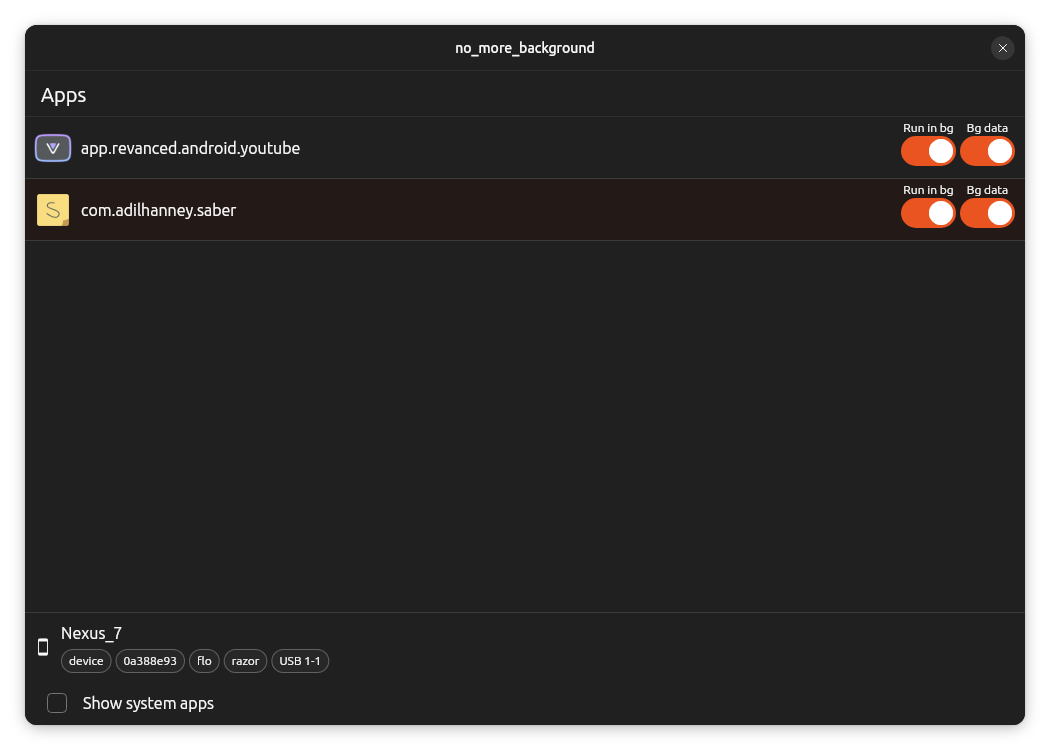
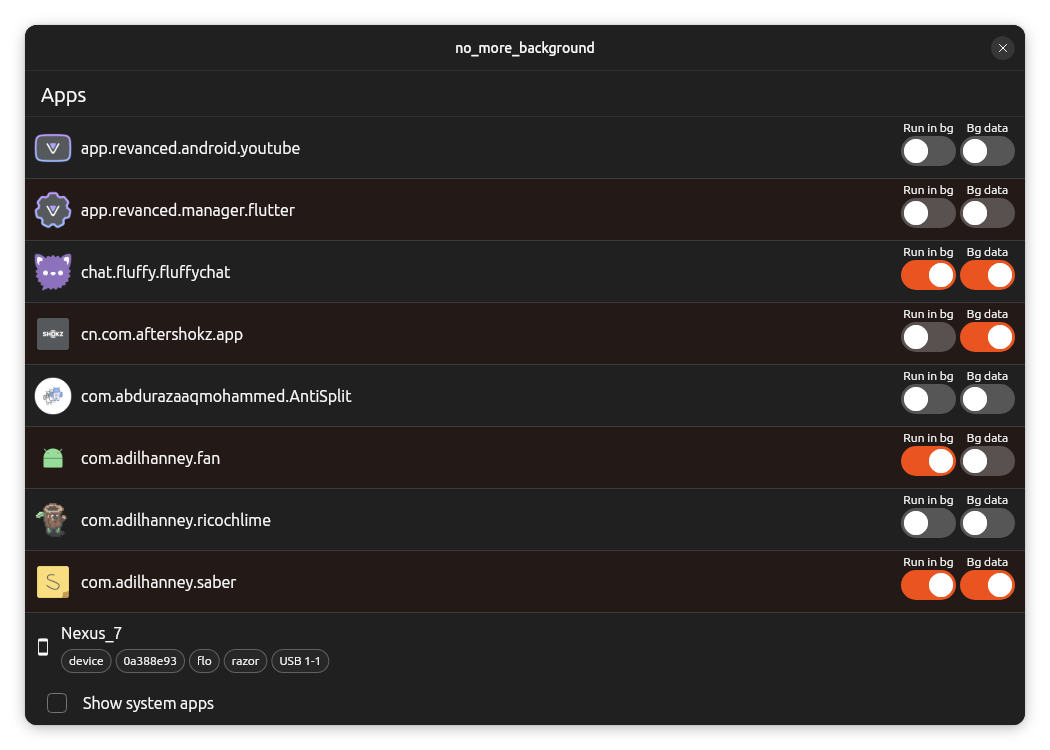
test: populate apps page for golden

diff --git a/test/util/test_adb_impl.dart b/test/util/test_adb_impl.dart
@@ -27,14 +27,26 @@ package:com.android.systemui  installer=null uid:9810
 package:com.google.android.youtube  installer=com.android.vending uid:10021
 ''',
     '''
-package:com.adilhanney.saber  installer=com.google.android.packageinstaller uid:10096
-package:app.revanced.android.youtube  installer=null uid:10044
+package:app.revanced.android.youtube  installer=null uid:10045
+package:app.revanced.manager.flutter  installer=null uid:10050
+package:chat.fluffy.fluffychat  installer=null uid:10055
+package:cn.com.aftershokz.app  installer=com.android.vending uid:10060
+package:com.abdurazaaqmohammed.AntiSplit  installer=com.google.android.packageinstaller uid:10065
+package:com.adilhanney.fan  installer=com.android.vending uid:10070
+package:com.adilhanney.ricochlime  installer=com.android.vending uid:10075
+package:com.adilhanney.saber  installer=com.google.android.packageinstaller uid:10080
+package:com.adilhanney.super_nonogram  installer=com.android.vending uid:10085
+package:com.amazon.mShop.android.shopping  installer=com.android.vending uid:10090
+package:com.celzero.bravedns  installer=com.android.vending uid:10095
+package:com.discord  installer=com.android.vending uid:10100
+package:com.ebay.mobile  installer=com.android.vending uid:10105
 ''',
   );
 
-  bool runAnyInBackground = true;
+  final runAnyInBackgroundMap = <AdbApp, bool>{};
   @override
   Future<String> getRunAnyInBackground(AdbApp app, AdbDevice device) async {
+    final runAnyInBackground = runAnyInBackgroundMap[app] ?? true;
     return runAnyInBackground
         ? 'RUN_ANY_IN_BACKGROUND: allow'
         : 'RUN_ANY_IN_BACKGROUND: ignore';
@@ -46,10 +58,11 @@ package:app.revanced.android.youtube  installer=null uid:10044
     AdbDevice device,
     bool allow,
   ) async {
-    runAnyInBackground = allow;
+    runAnyInBackgroundMap[app] = allow;
   }
 
-  String restrictedBackgroundDataOutput = '';
+  String restrictedBackgroundDataOutput =
+      'Restrict background blacklisted UIDs: 10045 10050 10065 10070 10075 10085 10090 10100';
   @override
   Future<String> getAppsWithRestrictedBackgroundData(AdbDevice device) async {
     return restrictedBackgroundDataOutput;

diff --git a/test/golden_screenshot_test.dart b/test/golden_screenshot_test.dart
@@ -2,6 +2,7 @@ import 'package:flutter/material.dart';
 import 'package:flutter_test/flutter_test.dart';
 import 'package:golden_screenshot/golden_screenshot.dart';
 import 'package:no_more_background/compute/adb.dart';
+import 'package:no_more_background/data/adb_app.dart';
 import 'package:no_more_background/data/adb_device.dart';
 import 'package:no_more_background/data/icon_pack.dart';
 import 'package:no_more_background/pages/apps_page.dart';
@@ -10,25 +11,32 @@ import 'package:yaru/theme.dart';
 
 import 'util/test_adb_impl.dart';
 
+final _device = AdbDevice.fromAdbOutput(
+  '0a388e93      device usb:1-1 product:razor model:Nexus_7 device:flo',
+);
 void main() {
   group('Screenshot:', () {
     TestWidgetsFlutterBinding.ensureInitialized();
     ConnectPage.slowDownDeviceScanning = false;
-    final device = AdbDevice.fromAdbOutput(
-      '0a388e93      device usb:1-1 product:razor model:Nexus_7 device:flo',
-    );
     setUpAll(() async {
       await IconPack.init();
     });
-    setUp(() {
-      Adb.impl = TestAdbImpl();
+    setUp(() async {
+      Adb.impl = TestAdbImpl()
+        ..restrictBg('app.revanced.android.youtube')
+        ..restrictBg('app.revanced.manager.flutter')
+        ..restrictBg('cn.com.aftershokz.app')
+        ..restrictBg('com.abdurazaaqmohammed.AntiSplit')
+        ..restrictBg('com.adilhanney.ricochlime')
+        ..restrictBg('com.adilhanney.super_nonogram')
+        ..restrictBg('com.adilhanney.timing');
     });
 
     _screenshot('1_connect', home: ConnectPage());
 
     _screenshot(
       '2_apps',
-      home: AppsPage(device: device),
+      home: AppsPage(device: _device),
       beforeScreenshot: (tester) async {
         final state = tester.state<AppsPageState>(find.byType(AppsPage));
         await state.restrictedDataAppUids;
@@ -82,4 +90,16 @@ void _screenshot(
       });
     }
   });
+}
+
+extension _SuccinctAdbImpl on TestAdbImpl {
+  void restrictBg(String packageName) {
+    final app = AdbApp(
+      packageName,
+      installer: 'null',
+      uid: '0',
+      isSystemApp: false,
+    );
+    setRunAnyInBackground(app, _device, false);
+  }
 }

diff --git a/test/adb_test.dart b/test/adb_test.dart
@@ -66,7 +66,18 @@ void main() {
       });
 
       test('some apps', () async {
-        Adb.impl = TestAdbImpl();
+        Adb.impl = TestAdbImpl()
+          ..getAppsOutput = (
+            '''
+package:com.android.vending  installer=com.android.vending uid:9973
+package:com.android.systemui  installer=null uid:9810
+package:com.google.android.youtube  installer=com.android.vending uid:10021
+''',
+            '''
+package:com.adilhanney.saber  installer=com.google.android.packageinstaller uid:10096
+package:app.revanced.android.youtube  installer=null uid:10044
+''',
+          );
         final apps = await Adb.getApps(device);
         expect(apps, [
           AdbApp(
@@ -119,13 +130,13 @@ void main() {
       });
 
       test('cannot run in background', () async {
-        Adb.impl = TestAdbImpl()..runAnyInBackground = false;
+        Adb.impl = TestAdbImpl()..setRunAnyInBackground(app, device, false);
         final canRun = await Adb.getRunAnyInBackground(device, app);
         expect(canRun, isFalse);
       });
 
       test('can run in background', () async {
-        Adb.impl = TestAdbImpl()..runAnyInBackground = true;
+        Adb.impl = TestAdbImpl()..setRunAnyInBackground(app, device, true);
         final canRun = await Adb.getRunAnyInBackground(device, app);
         expect(canRun, isTrue);
       });
